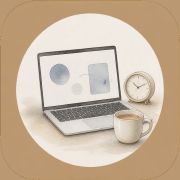
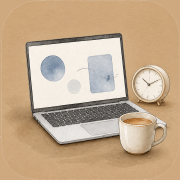
アイコンを新しい水彩デザイン（四角版）に差し替え

diff --git a/index.html b/index.html
@@ -13,8 +13,8 @@
 <meta name="format-detection" content="telephone=no">
 <meta name="theme-color" content="#F1F3F0" media="(prefers-color-scheme: light)">
 <meta name="theme-color" content="#101413" media="(prefers-color-scheme: dark)">
-<link rel="apple-touch-icon" href="apple-touch-icon.png?v=3">
-<link rel="icon" type="image/png" href="apple-touch-icon.png?v=3">
+<link rel="apple-touch-icon" href="apple-touch-icon.png?v=4">
+<link rel="icon" type="image/png" href="apple-touch-icon.png?v=4">
 <style>
 :root{
   --bg:#F1F3F0; --surface:#FBFCFA; --surface-2:#E9ECE7;
